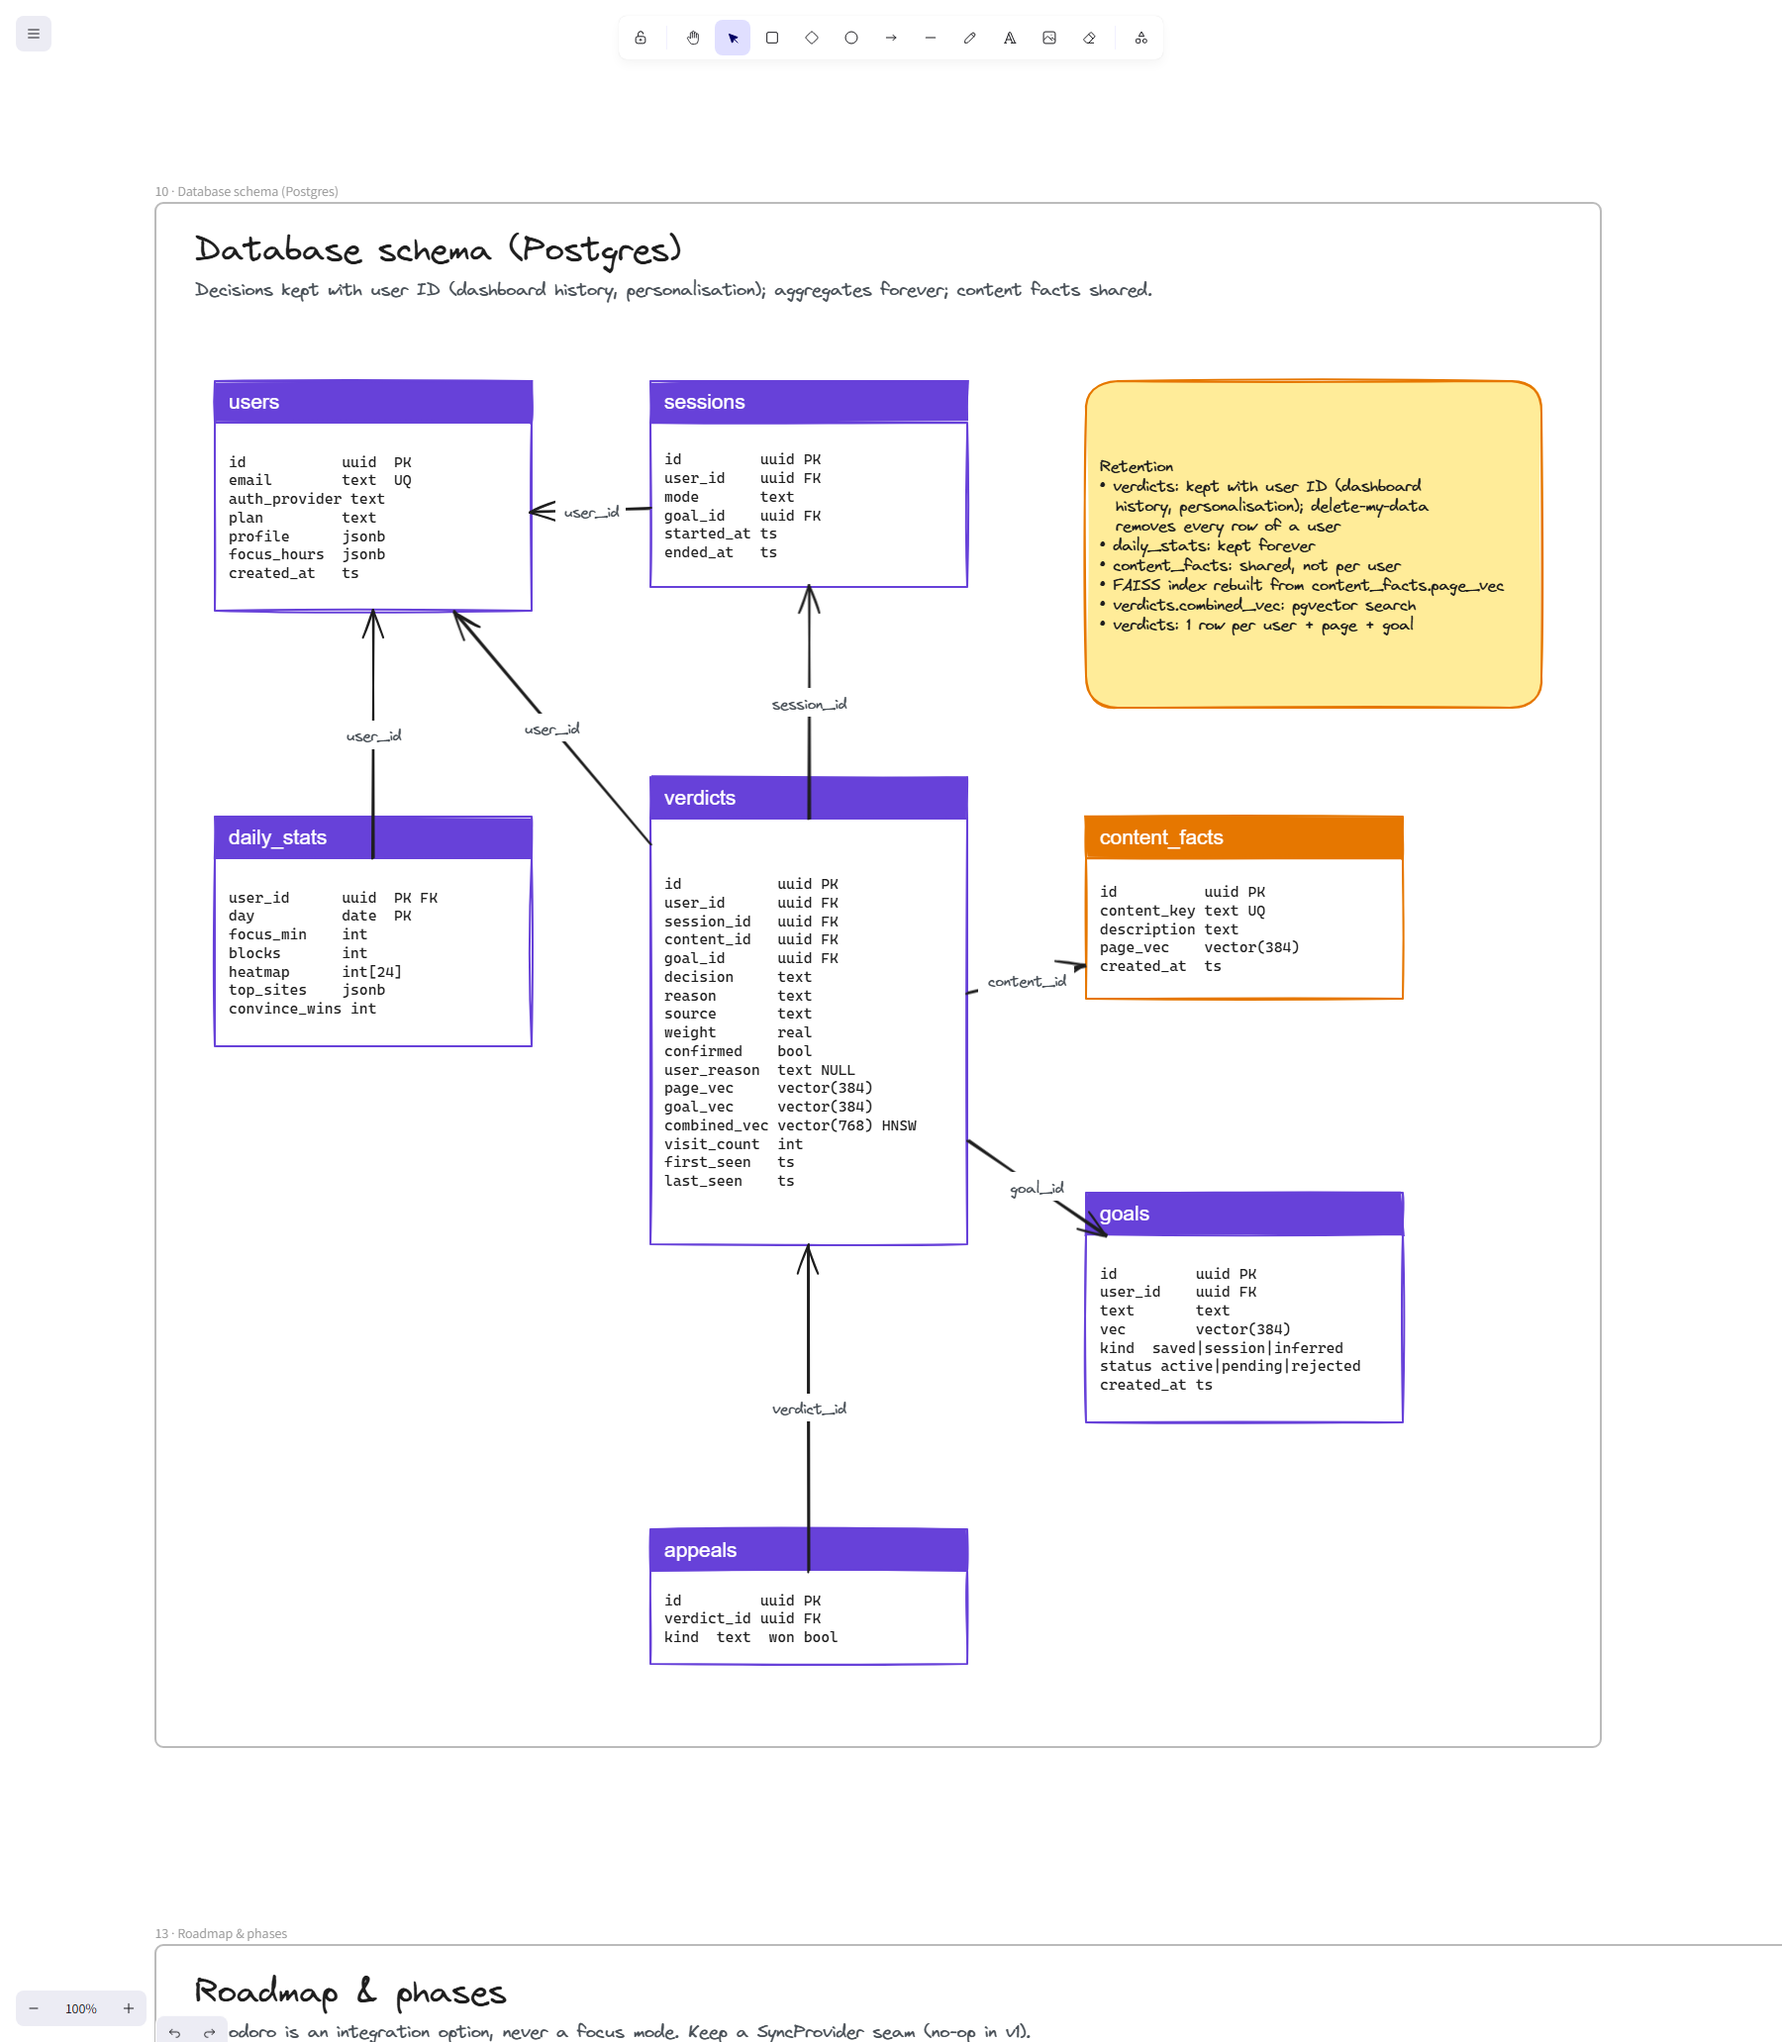
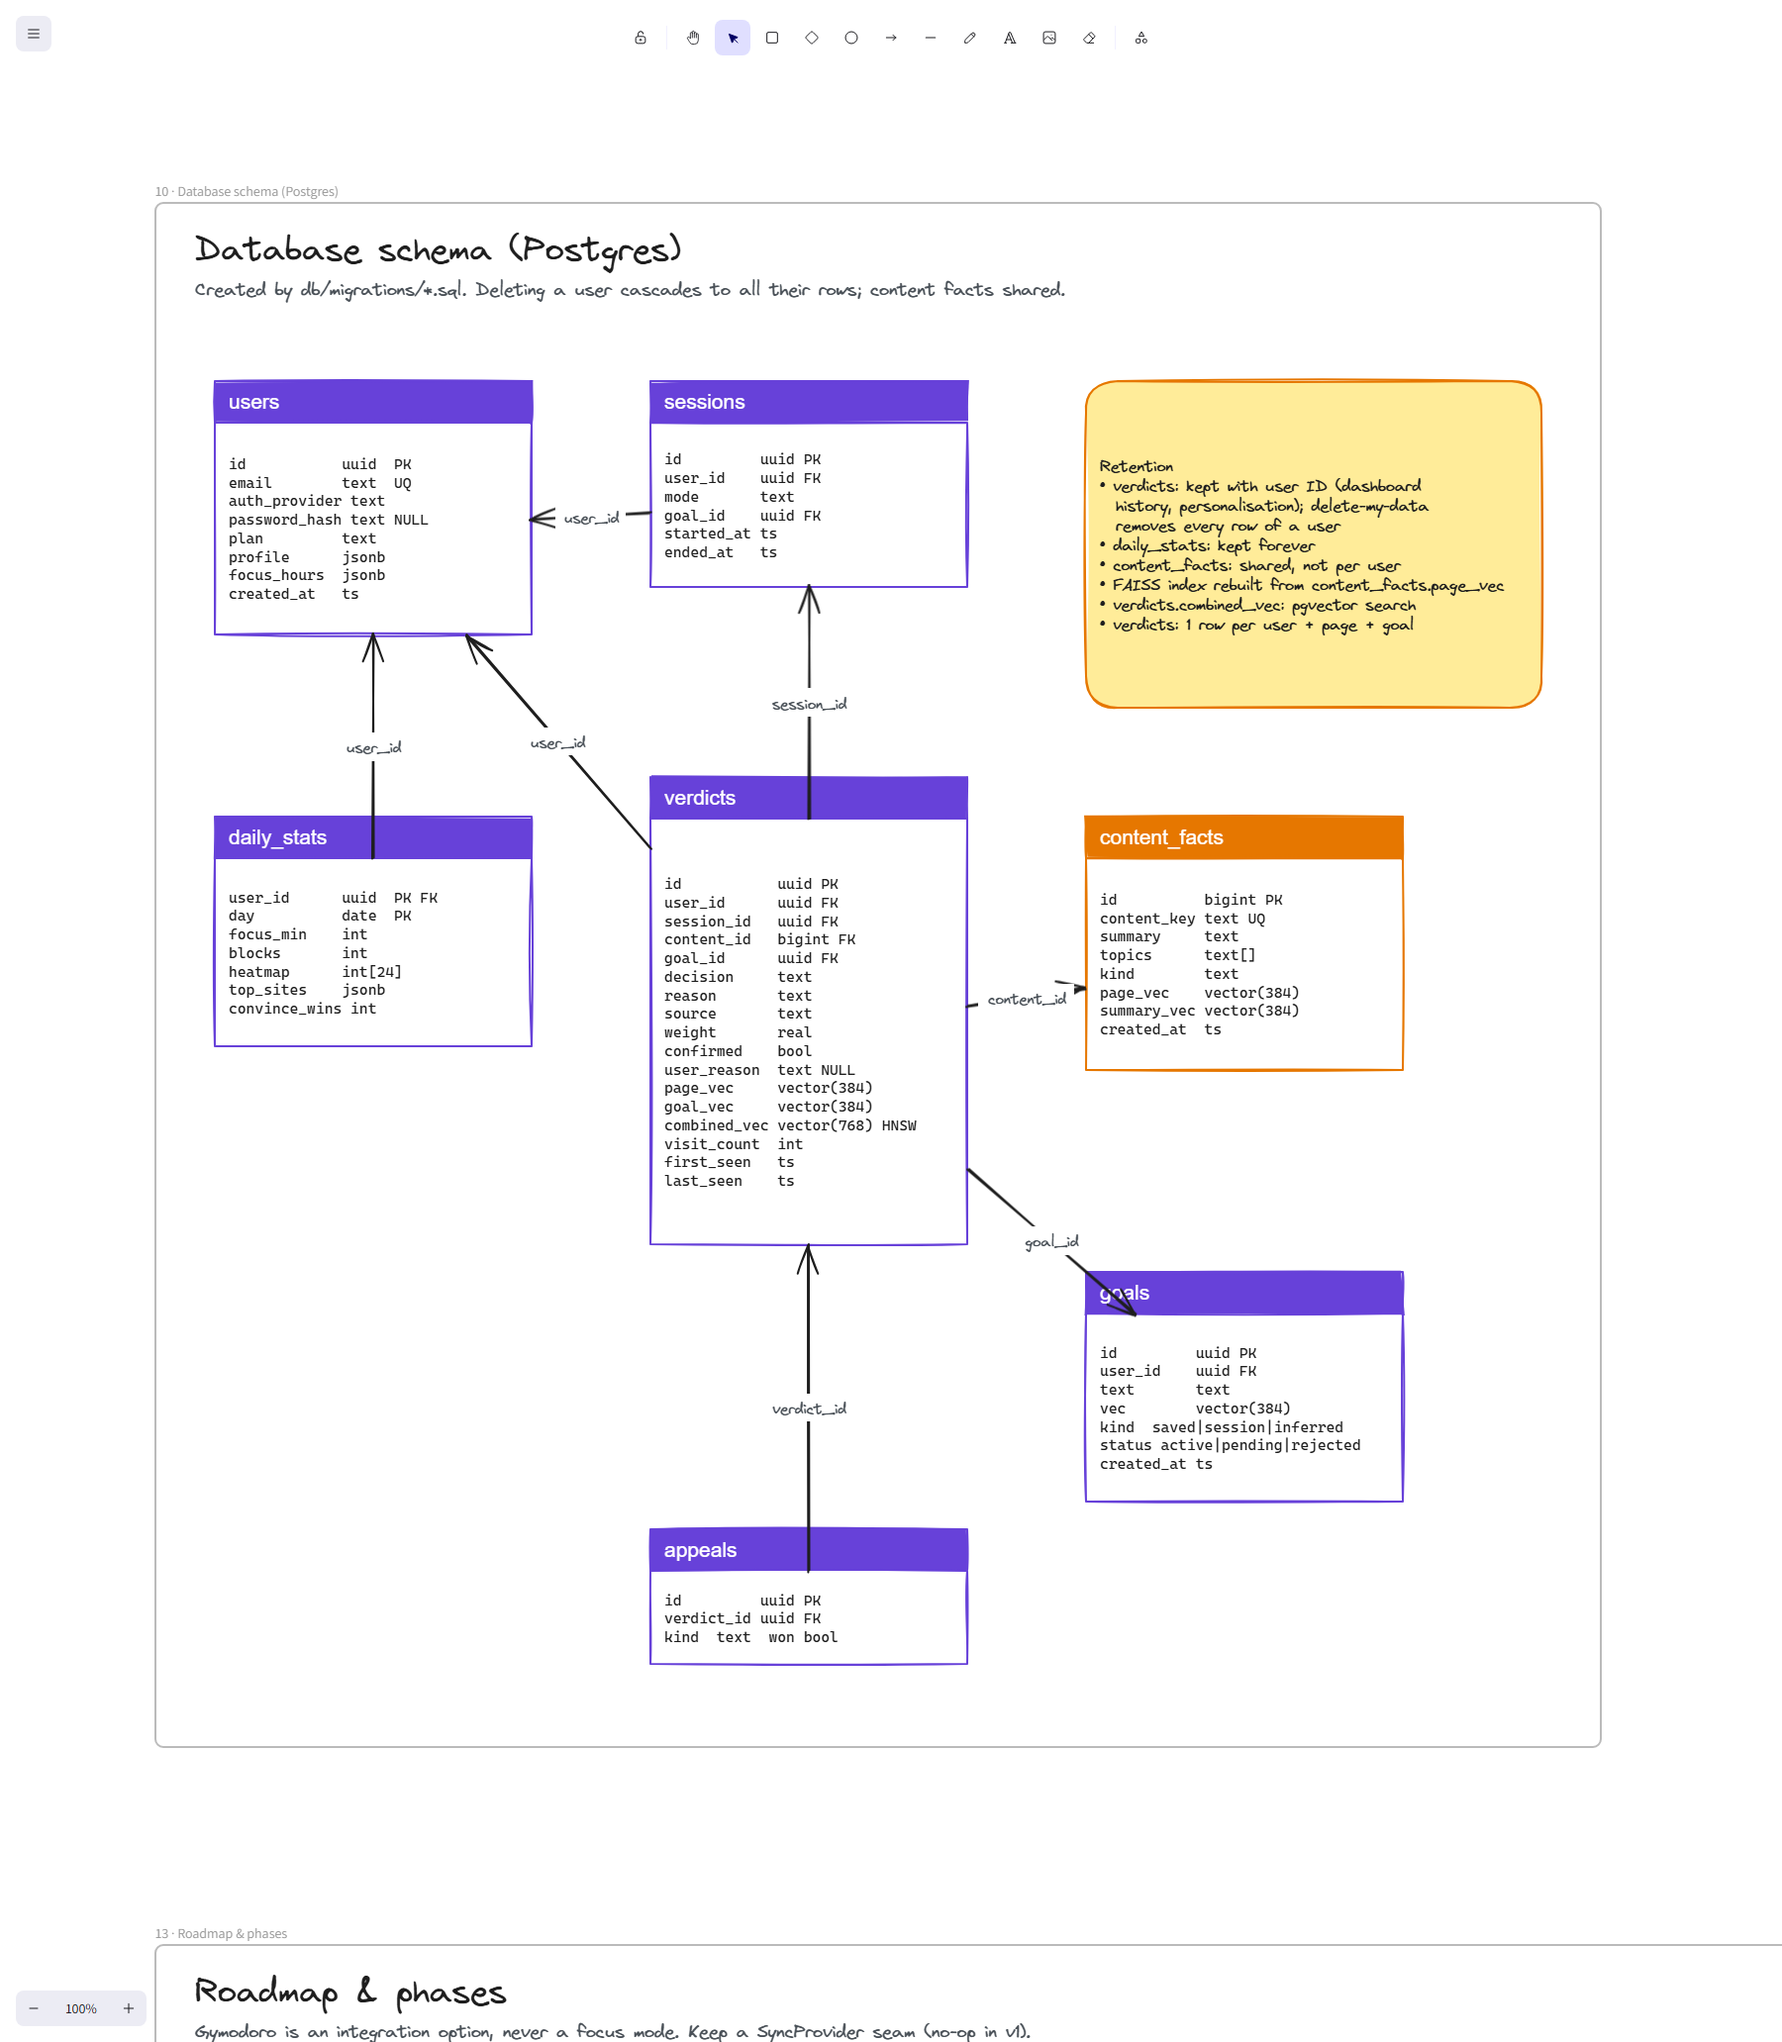
Postgres + pgvector in Docker Compose, SQL migrations for all tables, board frame 10 synced with the schema

diff --git a/.plans/architecture/diagrams.py b/.plans/architecture/diagrams.py
@@ -379,8 +379,8 @@ with S.frame("goal", "Goal model & intent capture", 2340, 1440,
 
 # ----------------------------------------------------------------------- 10
 with S.frame("db", "Database schema (Postgres)", 1460, 1560,
-             "Decisions kept with user ID (dashboard history, personalisation); aggregates forever; content facts shared."):
-    S.table("users", 60, 180, "users", ["id           uuid  PK", "email        text  UQ", "auth_provider text",
+             "Created by db/migrations/*.sql. Deleting a user cascades to all their rows; content facts shared."):
+    S.table("users", 60, 180, "users", ["id           uuid  PK", "email        text  UQ", "auth_provider text", "password_hash text NULL",
                                          "plan         text", "profile      jsonb", "focus_hours  jsonb",
                                          "created_at   ts"])
     S.table("daily", 60, 620, "daily_stats", ["user_id      uuid  PK FK", "day          date  PK",
@@ -391,16 +391,17 @@ with S.frame("db", "Database schema (Postgres)", 1460, 1560,
                                            "goal_id    uuid FK", "started_at ts", "ended_at   ts"])
     S.table("verd", 500, 580, "verdicts",
             ["id           uuid PK", "user_id      uuid FK", "session_id   uuid FK",
-             "content_id   uuid FK", "goal_id      uuid FK", "decision     text",
+             "content_id   bigint FK", "goal_id      uuid FK", "decision     text",
              "reason       text", "source       text", "weight       real",
              "confirmed    bool", "user_reason  text NULL", "page_vec     vector(384)",
              "goal_vec     vector(384)", "combined_vec vector(768) HNSW", "visit_count  int",
              "first_seen   ts", "last_seen    ts"])
     S.table("appl", 500, 1340, "appeals", ["id         uuid PK", "verdict_id uuid FK", "kind  text  won bool"])
-    S.table("facts", 940, 620, "content_facts", ["id          uuid PK", "content_key text UQ",
-                                                 "description text", "page_vec    vector(384)",
-                                                 "created_at  ts"], color="yellow")
-    S.table("goals", 940, 1000, "goals", ["id         uuid PK", "user_id    uuid FK", "text       text",
+    S.table("facts", 940, 620, "content_facts", ["id          bigint PK", "content_key text UQ",
+                                                 "summary     text", "topics      text[]",
+                                                 "kind        text", "page_vec    vector(384)",
+                                                 "summary_vec vector(384)", "created_at  ts"], color="yellow")
+    S.table("goals", 940, 1080, "goals", ["id         uuid PK", "user_id    uuid FK", "text       text",
                                           "vec        vector(384)", "kind  saved|session|inferred",
                                           "status active|pending|rejected", "created_at ts"])
     S.note("ret", 940, 180, 460, 330,

diff --git a/.plans/architecture/future/music/diagrams.py b/.plans/architecture/future/music/diagrams.py
@@ -387,8 +387,8 @@ with S.frame("goal", "Goal model & intent capture", 2340, 1440,
 
 # ----------------------------------------------------------------------- 10
 with S.frame("db", "Database schema (Postgres)", 1460, 1560,
-             "Decisions kept with user ID (dashboard history, personalisation); aggregates forever; content facts shared."):
-    S.table("users", 60, 180, "users", ["id           uuid  PK", "email        text  UQ", "auth_provider text",
+             "Created by db/migrations/*.sql. Deleting a user cascades to all their rows; content facts shared."):
+    S.table("users", 60, 180, "users", ["id           uuid  PK", "email        text  UQ", "auth_provider text", "password_hash text NULL",
                                          "plan         text", "profile      jsonb", "focus_hours  jsonb",
                                          "created_at   ts"])
     S.table("daily", 60, 620, "daily_stats", ["user_id      uuid  PK FK", "day          date  PK",
@@ -399,16 +399,17 @@ with S.frame("db", "Database schema (Postgres)", 1460, 1560,
                                            "goal_id    uuid FK", "started_at ts", "ended_at   ts"])
     S.table("verd", 500, 580, "verdicts",
             ["id           uuid PK", "user_id      uuid FK", "session_id   uuid FK",
-             "content_id   uuid FK", "goal_id      uuid FK", "decision     text",
+             "content_id   bigint FK", "goal_id      uuid FK", "decision     text",
              "reason       text", "source       text", "weight       real",
              "confirmed    bool", "user_reason  text NULL", "page_vec     vector(384)",
              "goal_vec     vector(384)", "combined_vec vector(768) HNSW", "visit_count  int",
              "first_seen   ts", "last_seen    ts"])
     S.table("appl", 500, 1340, "appeals", ["id         uuid PK", "verdict_id uuid FK", "kind  text  won bool"])
-    S.table("facts", 940, 620, "content_facts", ["id          uuid PK", "content_key text UQ",
-                                                 "description text", "page_vec    vector(384)",
-                                                 "created_at  ts"], color="yellow")
-    S.table("goals", 940, 1000, "goals", ["id         uuid PK", "user_id    uuid FK", "text       text",
+    S.table("facts", 940, 620, "content_facts", ["id          bigint PK", "content_key text UQ",
+                                                 "summary     text", "topics      text[]",
+                                                 "kind        text", "page_vec    vector(384)",
+                                                 "summary_vec vector(384)", "created_at  ts"], color="yellow")
+    S.table("goals", 940, 1080, "goals", ["id         uuid PK", "user_id    uuid FK", "text       text",
                                           "vec        vector(384)", "kind  saved|session|inferred",
                                           "status active|pending|rejected", "created_at ts"])
     S.note("ret", 940, 180, 460, 330,

diff --git a/db/README.md b/db/README.md
@@ -1,0 +1,34 @@
+# Database (Postgres + pgvector)
+
+One schema shared by the Python AI service and the Go API. **These SQL files own the schema**:
+the Python and Go ORMs only map to the tables; they never create or alter them.
+
+Board: full board frame 10 "Database schema".
+
+## Start Postgres locally
+
+From the repo root (needs Docker Desktop running and `.env`, see `docker-compose.yml`):
+
+```bash
+docker compose up -d
+docker compose ps        # wait for (healthy)
+```
+
+## Apply migrations
+
+Run every file in order. They use `IF NOT EXISTS`, so running them again is safe.
+
+```bash
+for f in db/migrations/*.sql; do docker compose exec -T db psql -U autopilot -d autopilot -v ON_ERROR_STOP=1 -f - < "$f"; done
+```
+
+## Rules
+
+- Never edit a migration that has already run anywhere; add the next number (`003_…`).
+- Changing a table means updating three places: the new migration, the Python mapping, the Go struct.
+- Plain Postgres + pgvector only, so the same files run on Neon or AWS RDS later.
+
+| File | Creates |
+|---|---|
+| `001_content_facts.sql` | pgvector extension, `content_facts` (shared summary cache) |
+| `002_core_tables.sql` | `users`, `goals`, `sessions`, `verdicts`, `appeals`, `daily_stats` |
